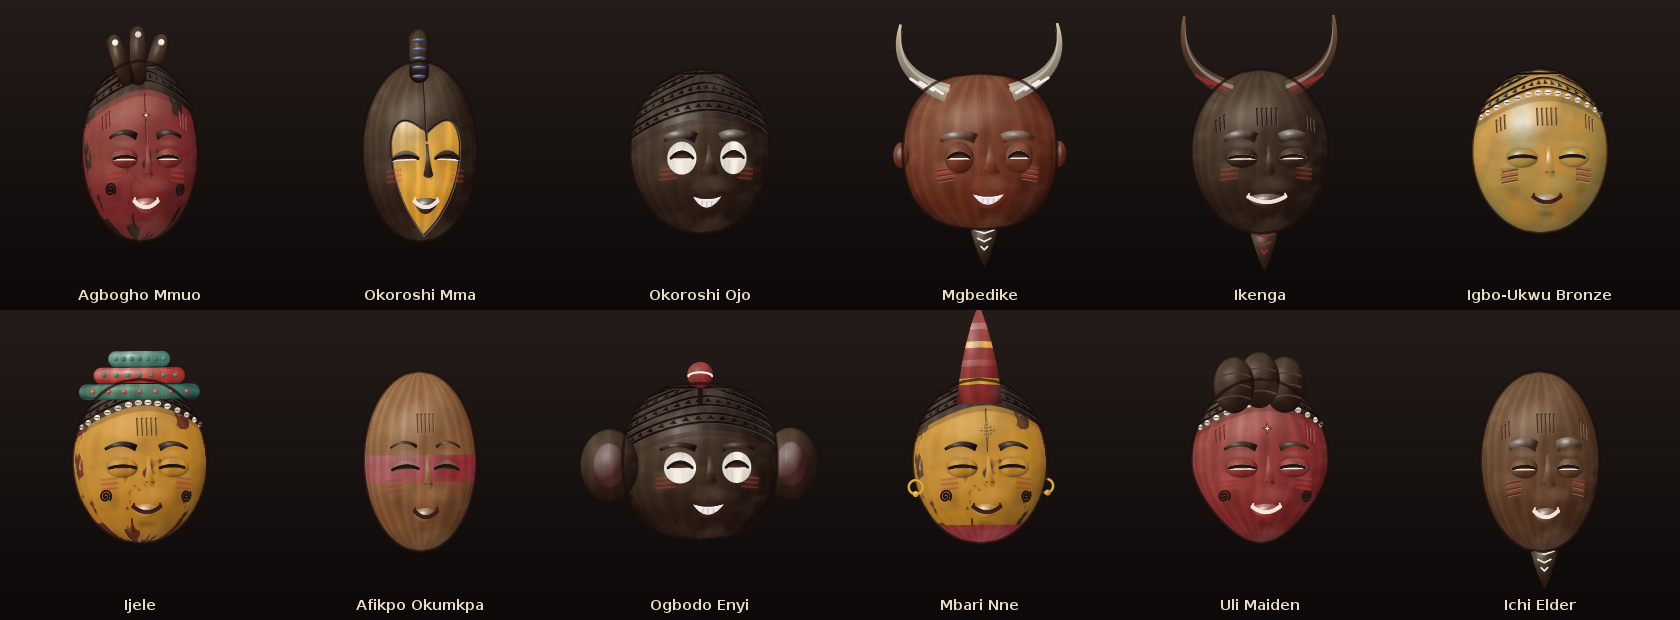
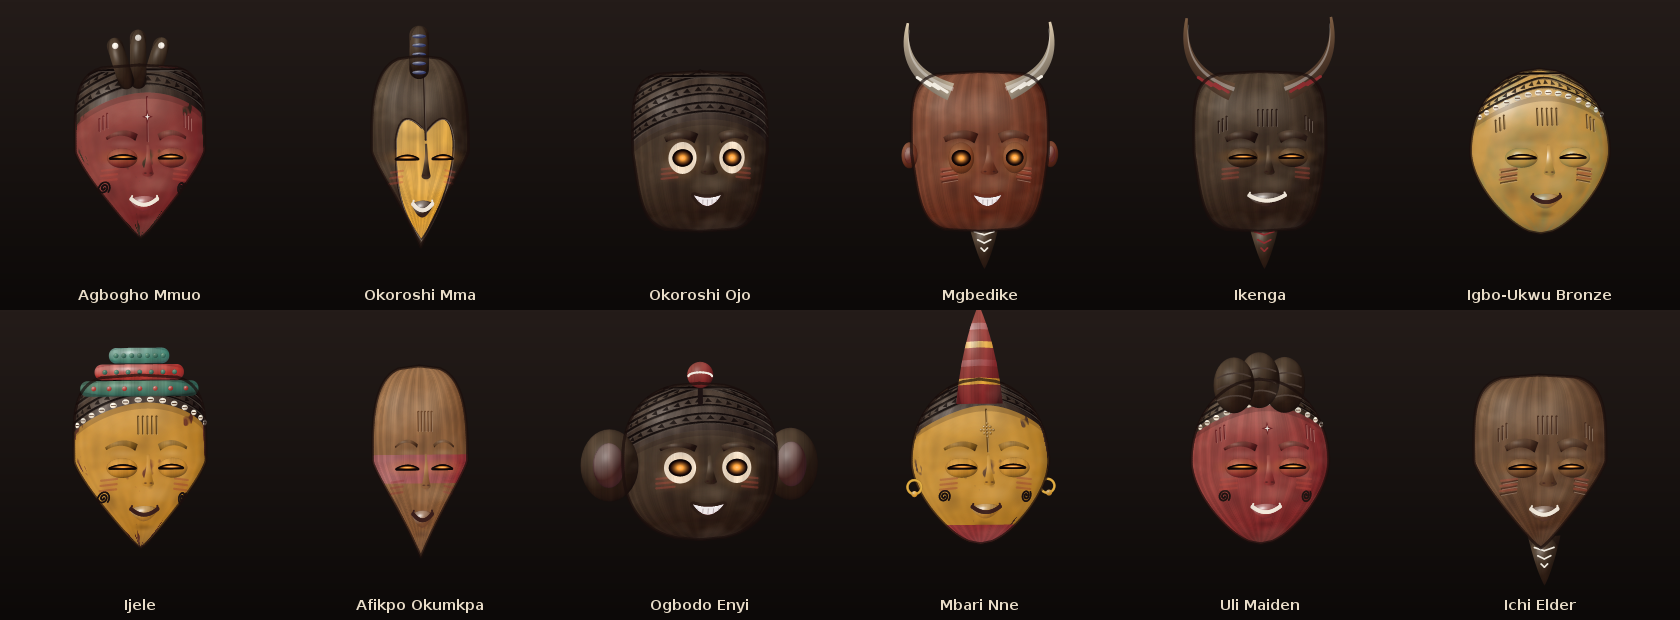
Emoji masks: glowing mask eyes and carved mask silhouettes
Lifeless eyes that glow: on wood and brass an open eye is a level hole cut
through the mask, with no lid, lash line, slant or pupil. It is lit from
inside like an ember, with a spill of light on the wood around it and a
slow flicker.
- Feelings shape the cut: a slit when serene, round in surprise, a glowing
  arch in laughter, a thin burning line when closed.
- The light burns red in anger and cold in grief.
- Brows are carved ridges in the mask's own wood, not painted black arches.
- The glossy finish keeps the emoji eyes.

Less oval, more mask:
- New silhouettes: shield (broad squared brow, chin narrowing to a point),
  blade (long and narrow) and square jaw.
- Wood and brass faces are shaded as a flat carved plane that turns
  sharply at the rim, instead of as a ball.
- The presets move onto these shapes, and the generator favours them.

Claude-Session: https://claude.ai/code/session_012NjHhwH1EvBHzbd255Gvhb

diff --git a/engine/model/src/main/kotlin/com/stratum/engine/model/mask/EmojiMask.kt b/engine/model/src/main/kotlin/com/stratum/engine/model/mask/EmojiMask.kt
@@ -39,7 +39,7 @@ import kotlin.random.Random
  */
 object EmojiMask {
 
-    enum class FaceShape(val label: String) { OVAL("Oval"), ROUND("Round"), LONG("Long"), HEART("Heart") }
+    enum class FaceShape(val label: String) { OVAL("Oval"), ROUND("Round"), LONG("Long"), HEART("Heart"), SHIELD("Shield"), BLADE("Blade"), SQUARE("Square jaw") }
     enum class Hairline(val label: String) { PEAK("Peaked"), HIGH("High dome"), SCALLOP("Scalloped"), LOW("Low"), BALD("None") }
     enum class Crest(val label: String) {
         NONE("None"), COMBS("Combs"), LOBES("Lobes"), RIDGES("Ridges"), KNOTS("Knots"), CONE("Cone"), HORNS("Horns"), TIERS("Tiers"), PLUMES("Plumes"),
@@ -57,7 +57,7 @@ object EmojiMask {
     /** What makes a mask this mask. Colours are [AfricanMaskArt.PIGMENTS] indices. */
     data class Look(
         val name: String = "Mask",
-        val shape: FaceShape = FaceShape.OVAL,
+        val shape: FaceShape = FaceShape.SHIELD,
         /** 0 narrow .. 1 wide. */
         val width: Float = 0.5f,
         val ground: Int = CAMWOOD,
@@ -183,35 +183,35 @@ object EmojiMask {
     /** Masks after the carvers' own: maidens, spirits, the brave. */
     /** Igbo masks after the carvers': maidens and spirits of the masquerade, titled elders, the old bronzes. */
     val presets: List<Look> = listOf(
-        Look("Agbogho Mmuo", ground = CAMWOOD, wood = BLACKWOOD, accent = KAOLIN, shape = FaceShape.LONG, width = 0.4f, crestColour = BLACKWOOD, crestCount = 3, crestSize = 0.6f,
+        Look("Agbogho Mmuo", ground = CAMWOOD, wood = BLACKWOOD, accent = KAOLIN, shape = FaceShape.SHIELD, width = 0.4f, crestColour = BLACKWOOD, crestCount = 3, crestSize = 0.6f,
             hairline = Hairline.HIGH, marks = setOf(Mark.LINE, Mark.STAR, Mark.TEMPLE), paint = setOf(Paint.SPIRALS)),
-        Look("Okoroshi Mma", finish = Finish.CARVED, shape = FaceShape.LONG, ground = BLACKWOOD, wood = BLACKWOOD, hair = BLACKWOOD, accent = OCHRE, width = 0.35f,
+        Look("Okoroshi Mma", finish = Finish.CARVED, shape = FaceShape.BLADE, ground = BLACKWOOD, wood = BLACKWOOD, hair = BLACKWOOD, accent = OCHRE, width = 0.35f,
             hairline = Hairline.BALD, crest = Crest.RIDGES, crestCount = 1, crestSize = 0.6f, crestColour = BLACKWOOD, eyes = EyeStyle.SLIT, brows = BrowStyle.NONE,
             paint = setOf(Paint.HEART), marks = setOf(Mark.LINE)),
-        Look("Okoroshi Ojo", finish = Finish.CARVED, ground = BLACKWOOD, wood = BLACKWOOD, hair = LAMPBLACK, accent = KAOLIN, accent2 = GOLD, hairline = Hairline.LOW,
+        Look("Okoroshi Ojo", finish = Finish.CARVED, shape = FaceShape.SQUARE, ground = BLACKWOOD, wood = BLACKWOOD, hair = LAMPBLACK, accent = KAOLIN, accent2 = GOLD, hairline = Hairline.LOW,
             crest = Crest.NONE, eyes = EyeStyle.ROUND, brows = BrowStyle.RIDGE, nose = NoseStyle.BROAD, mouth = MouthStyle.TEETH, marks = setOf(Mark.ICHI), width = 0.7f),
-        Look("Mgbedike", finish = Finish.CARVED, shape = FaceShape.ROUND, ground = MAHOGANY, wood = MAHOGANY, hair = BLACKWOOD, accent = KAOLIN, accent2 = GOLD, crestColour = BONE,
+        Look("Mgbedike", finish = Finish.CARVED, shape = FaceShape.SQUARE, ground = MAHOGANY, wood = MAHOGANY, hair = BLACKWOOD, accent = KAOLIN, accent2 = GOLD, crestColour = BONE,
             hairline = Hairline.BALD, crest = Crest.HORNS, crestSize = 0.8f, eyes = EyeStyle.TUBE, brows = BrowStyle.RIDGE, nose = NoseStyle.BROAD, mouth = MouthStyle.TEETH,
             ears = Ears.SMALL, marks = setOf(Mark.CHEEK), beard = true, width = 0.8f),
-        Look("Ikenga", finish = Finish.CARVED, ground = BLACKWOOD, wood = BLACKWOOD, hair = BLACKWOOD, accent = CAMWOOD, accent2 = KAOLIN, crestColour = UMBER,
+        Look("Ikenga", finish = Finish.CARVED, shape = FaceShape.SQUARE, ground = BLACKWOOD, wood = BLACKWOOD, hair = BLACKWOOD, accent = CAMWOOD, accent2 = KAOLIN, crestColour = UMBER,
             hairline = Hairline.BALD, crest = Crest.HORNS, crestSize = 1f, eyes = EyeStyle.BEAN, brows = BrowStyle.RIDGE, mouth = MouthStyle.WIDE,
             marks = setOf(Mark.ICHI, Mark.TEMPLE), beard = true, width = 0.6f),
         Look("Igbo-Ukwu Bronze", finish = Finish.BRASS, ground = BRASS, wood = BRASS, hair = BRASS, crest = Crest.NONE, hairline = Hairline.HIGH, braids = true,
             cowries = true, eyes = EyeStyle.BEAN, brows = BrowStyle.NONE, marks = setOf(Mark.ICHI, Mark.TEMPLE, Mark.CHEEK), accent = CORAL, accent2 = CORAL,
-            shape = FaceShape.OVAL, width = 0.55f),
-        Look("Ijele", ground = OCHRE, wood = MAHOGANY, accent = VERMILION, accent2 = JADE, crestColour = JADE, crest = Crest.TIERS, hairline = Hairline.HIGH,
+            shape = FaceShape.HEART, width = 0.55f),
+        Look("Ijele", shape = FaceShape.SHIELD, ground = OCHRE, wood = MAHOGANY, accent = VERMILION, accent2 = JADE, crestColour = JADE, crest = Crest.TIERS, hairline = Hairline.HIGH,
             marks = setOf(Mark.ICHI), paint = setOf(Paint.SPIRALS), cowries = true),
-        Look("Afikpo Okumkpa", finish = Finish.CARVED, shape = FaceShape.LONG, ground = IROKO, wood = IROKO, hair = BLACKWOOD, accent = CAMWOOD, accent2 = KAOLIN,
+        Look("Afikpo Okumkpa", finish = Finish.CARVED, shape = FaceShape.BLADE, ground = IROKO, wood = IROKO, hair = BLACKWOOD, accent = CAMWOOD, accent2 = KAOLIN,
             hairline = Hairline.BALD, crest = Crest.NONE, paint = setOf(Paint.EYE_BAND), marks = setOf(Mark.ICHI), width = 0.25f, brows = BrowStyle.THIN, eyes = EyeStyle.SLIT),
         Look("Ogbodo Enyi", finish = Finish.CARVED, ground = BLACKWOOD, wood = BLACKWOOD, hair = LAMPBLACK, hairline = Hairline.LOW, crest = Crest.KNOTS, crestCount = 1,
             crestColour = CAMWOOD, eyes = EyeStyle.ROUND, mouth = MouthStyle.TEETH, ears = Ears.ELEPHANT, accent = KAOLIN, marks = setOf(Mark.ICHI),
             shape = FaceShape.ROUND, width = 0.8f),
-        Look("Mbari Nne", ground = OCHRE, wood = UMBER, hair = LAMPBLACK, crest = Crest.CONE, crestColour = CAMWOOD, crestSize = 0.8f, accent = OCHRE, accent2 = CAMWOOD,
+        Look("Mbari Nne", shape = FaceShape.HEART, ground = OCHRE, wood = UMBER, hair = LAMPBLACK, crest = Crest.CONE, crestColour = CAMWOOD, crestSize = 0.8f, accent = OCHRE, accent2 = CAMWOOD,
             hairline = Hairline.HIGH, marks = setOf(Mark.LINE, Mark.KELOID), paint = setOf(Paint.SPIRALS, Paint.CHIN), earrings = true),
         Look("Uli Maiden", finish = Finish.CARVED, ground = CAMWOOD, wood = CAMWOOD, hair = BLACKWOOD, crest = Crest.LOBES, crestCount = 3, crestColour = BLACKWOOD,
             accent = KAOLIN, accent2 = GOLD, paint = setOf(Paint.SPIRALS), marks = setOf(Mark.STAR, Mark.TEMPLE), cowries = true, shape = FaceShape.HEART),
         Look("Ichi Elder", finish = Finish.CARVED, ground = UMBER, wood = UMBER, hair = BLACKWOOD, accent = KAOLIN, hairline = Hairline.BALD, crest = Crest.NONE,
-            eyes = EyeStyle.BEAN, brows = BrowStyle.RIDGE, nose = NoseStyle.BROAD, marks = setOf(Mark.ICHI, Mark.TEMPLE, Mark.CHEEK), beard = true, shape = FaceShape.LONG, width = 0.5f),
+            eyes = EyeStyle.BEAN, brows = BrowStyle.RIDGE, nose = NoseStyle.BROAD, marks = setOf(Mark.ICHI, Mark.TEMPLE, Mark.CHEEK), beard = true, shape = FaceShape.SHIELD, width = 0.5f),
     )
 
     /**
@@ -239,7 +239,7 @@ object EmojiMask {
         val eyes = one(listOf(EyeStyle.BEAN, EyeStyle.BEAN, EyeStyle.BEAN, EyeStyle.TUBE, EyeStyle.TUBE, EyeStyle.ROUND, EyeStyle.ROUND, EyeStyle.SLIT, EyeStyle.ALMOND))
         return Look(
             name = name,
-            shape = one(FaceShape.entries),
+            shape = one(listOf(FaceShape.SHIELD, FaceShape.SHIELD, FaceShape.BLADE, FaceShape.BLADE, FaceShape.SQUARE, FaceShape.SQUARE, FaceShape.HEART, FaceShape.HEART, FaceShape.LONG, FaceShape.ROUND)),
             width = 0.2f + r.nextFloat() * 0.6f,
             ground = ground,
             hair = if (finish == Finish.BRASS) BRASS else one(listOf(LAMPBLACK, BLACKWOOD, BLACKWOOD, INDIGO, wood)),
@@ -299,8 +299,8 @@ object EmojiMask {
 
     private class Rig(val cv: VectorCanvas, val look: Look, val f: Face, val yaw: Float, val t: Float, blink: Boolean) {
         // ---- the head's form -------------------------------------------------------
-        val rx = (0.74f + 0.16f * look.width) * when (look.shape) { FaceShape.ROUND -> 1.08f; FaceShape.LONG -> 0.88f; FaceShape.HEART -> 1.02f; FaceShape.OVAL -> 1f }
-        val ry = when (look.shape) { FaceShape.LONG -> 1.1f; FaceShape.ROUND -> 0.95f; else -> 1f }
+        val rx = (0.74f + 0.16f * look.width) * when (look.shape) { FaceShape.ROUND -> 1.08f; FaceShape.LONG -> 0.88f; FaceShape.HEART -> 1.02f; FaceShape.OVAL -> 1f; FaceShape.SHIELD -> 0.98f; FaceShape.BLADE -> 0.74f; FaceShape.SQUARE -> 0.96f }
+        val ry = when (look.shape) { FaceShape.LONG -> 1.1f; FaceShape.ROUND -> 0.95f; FaceShape.SHIELD -> 1.05f; FaceShape.BLADE -> 1.16f; FaceShape.SQUARE -> 0.97f; else -> 1f }
         val headY = -0.2f + 0.018f * sin(t * 1.7f)
         val squash = f.bounce * 0.045f * sin(t * 9f)
         val roll = f.tilt + 0.025f * sin(t * 0.9f)
@@ -341,6 +341,10 @@ object EmojiMask {
             val a = abs(v).coerceAtMost(1f)
             return when (look.shape) {
                 FaceShape.ROUND -> (1f - a.pow(2.4f)).coerceAtLeast(0f).pow(1f / 2.4f)
+                // A carved mask's outline: a broad, squared brow, cheeks that fall away, a chin that narrows to a point.
+                FaceShape.SHIELD -> if (v >= 0f) (1f - a.pow(4f)).coerceAtLeast(0f).pow(0.25f) else (1f - a.pow(1.6f)).coerceAtLeast(0f).pow(0.8f) * (1f - 0.38f * a)
+                FaceShape.BLADE -> if (v >= 0f) (1f - a.pow(3f)).coerceAtLeast(0f).pow(1f / 3f) else (1f - a.pow(1.4f)).coerceAtLeast(0f).pow(0.9f) * (1f - 0.5f * a)
+                FaceShape.SQUARE -> (1f - a.pow(4.5f)).coerceAtLeast(0f).pow(1f / 4.5f) * (if (v < 0f) 1f - 0.16f * a else 1f)
                 FaceShape.HEART -> sqrt(1f - a * a) * (if (v < 0f) 1f - 0.3f * a.pow(1.6f) else 1f)
                 else -> sqrt(1f - a * a)
             }
@@ -420,7 +424,10 @@ object EmojiMask {
             val v = (hy / ry).coerceIn(-1f, 1f)
             val wv = w(v)
             val s = if (wv > 1e-3f) (hx / (rx * wv)).coerceIn(-1f, 1f) else 0f
-            val nx = s * wv; val ny = v; val nz = sqrt(max(0f, 1f - nx * nx - ny * ny))
+            // A mask is a carved board, not a ball: flat across its face, turning sharply at the rim.
+            val fs = if (gloss) s else Math.copySign(abs(s).pow(2.3f), s)
+            val fv = if (gloss) v else Math.copySign(abs(v).pow(2f), v)
+            val nx = fs * wv; val ny = fv; val nz = sqrt(max(0f, 1f - nx * nx - ny * ny))
             // Where on the head this is, so grain and wear stay put as it turns.
             val th = asin(s) - yaw
             var col = texture(shade(m, nx, ny, nz), th, v, nz)
@@ -851,7 +858,7 @@ object EmojiMask {
                 EyeKind.SPIRAL -> {
                     val pts = FloatArray(90)
                     for (i in 0 until 45) { val k = i / 44f; val a = k * 5.2f * PI.toFloat() * sd + t * 5f * sd; val r = 0.01f + 0.14f * k; pts[i * 2] = cu + cos(a) * r; pts[i * 2 + 1] = v + sin(a) * r }
-                    cv.stroke(onFace(pts), 0.038f, eyeLine)
+                    if (gloss) cv.stroke(onFace(pts), 0.038f, eyeLine) else glowLine(onFace(pts), 0.026f, sd, 1f)
                     return
                 }
                 EyeKind.NORMAL -> Unit
@@ -859,42 +866,80 @@ object EmojiMask {
             val open = (if (sd < 0) f.eyeOpenL else f.eyeOpenR) * blinkK
             val smile = f.eyeSmile.coerceIn(0f, 1f)
             val lidCol = if (Paint.LIDS in look.paint) hairMat else material(mix(pigment(look.ground), c(0x3A2028), 0.16f), 0.4f)
-            if (open < 0.12f || (st == EyeStyle.BEAN && open < 0.3f && smile < 0.45f)) { closedEye(cu, v, ew, sd, smile, lidCol); return }
+            if (gloss) { emojiEye(cu, v, ew, eh, sd, st, open, smile, lidCol, fc); return }
+            if (open < 0.12f) { closedEye(cu, v, ew, sd, smile, lidCol); return }
+            // A mask's eye: a hole cut level through the wood, no lid, no pupil, lit from inside.
             val o = open.coerceAtMost(1.4f)
             val lift = if (st == EyeStyle.TUBE) 0.05f else 0f
-            // Level or drooping at the outer corner, as the carvers cut them -- never slanting up.
-            val tilt = when (st) { EyeStyle.SLIT -> -0.012f; EyeStyle.ALMOND -> -0.02f; else -> 0f }
+            // Cut wide enough for the light to show, whatever the feeling.
+            val hh = max(when (st) { EyeStyle.SLIT, EyeStyle.BEAN -> 0.03f; EyeStyle.ALMOND -> 0.04f; else -> 0.06f },
+                when (st) { EyeStyle.SLIT, EyeStyle.BEAN -> 0.7f; EyeStyle.ALMOND -> 0.85f; else -> 1f } * eh * o)
+            val ix = cu - sd * ew; val ox = cu + sd * ew
+            val uv = when (st) {
+                EyeStyle.ROUND, EyeStyle.TUBE -> Shapes.ellipse(cu, v, ew * 0.85f, hh * 1.1f + 0.02f, 32)
+                else -> {
+                    // A level lens; a smile bends its floor up into a crescent.
+                    val upper = Shapes.quad(ix, v, cu, v + 2f * hh * (1f + 0.3f * smile), ox, v, 18)
+                    val lower = Shapes.quad(ox, v, cu, v + 2f * hh * (-(1f - smile) + 0.75f * smile), ix, v, 18)
+                    upper + lower.copyOfRange(2, lower.size - 2)
+                }
+            }
+            glowHole(onFace(uv, lift), fc, sd)
+        }
+
+        /** What lights the mask from inside: ember, redder in anger, pale and cold in grief. */
+        fun glowColour(): Int {
+            var g = if (metal) c(0xFFC860) else c(0xFFA23A)
+            g = mix(g, c(0xFF3418), f.anger.coerceIn(0f, 1f) * 0.8f)
+            g = mix(g, c(0x9CD2FF), (f.tears * 0.7f + max(0f, -f.mouthSmile) * 0.3f).coerceIn(0f, 0.8f))
+            return g
+        }
+
+        fun pulse(sd: Float): Float = 0.82f + 0.18f * sin(t * 2.3f + sd * 0.7f) * (0.6f + 0.4f * sin(t * 7.1f))
+
+        /** A hole through the mask with light behind it: a spill on the wood round it, a dark cut edge, a burning core. */
+        fun glowHole(shape: FloatArray, fc: Float, sd: Float) {
+            val b = bounds(shape)
+            val cx = (b[0] + b[2]) / 2f; val cy = (b[1] + b[3]) / 2f
+            val rw = (b[2] - b[0]) / 2f + 1e-3f; val rh = (b[3] - b[1]) / 2f + 1e-3f
+            val g = glowColour(); val k = pulse(sd)
+            soft(cx, cy, rw * 2.2f + 0.06f, rh * 3f + 0.08f, g, 0.32f * k * fc)
+            cv.stroke(shape, 0.03f, c(0x0A0404), closed = true)
+            val core = mix(g, c(0xFFF4D8), 0.55f)
+            cv.fill(shape, VectorCanvas.Paint { x, y ->
+                val r = sqrt(((x - cx) / rw).let { it * it } + ((y - cy) / rh).let { it * it }).coerceIn(0f, 1f)
+                val inner = (1f - r).pow(1.3f) * k
+                if (inner > 0.55f) mix(g, core, ((inner - 0.55f) / 0.45f).coerceIn(0f, 1f)) else mix(c(0x160404), g, (inner / 0.55f).coerceIn(0f, 1f))
+            })
+        }
+
+        /** A burning line: the glow through a closed eye or round a laugh. */
+        fun glowLine(pts: FloatArray, width: Float, sd: Float, dim: Float) {
+            val g = glowColour(); val k = pulse(sd) * dim
+            cv.stroke(pts, width * 2.6f, g, opacity = 0.18f * k)
+            cv.stroke(pts, width * 1.35f, c(0x0A0404))
+            cv.stroke(pts, width * 0.6f, mix(g, c(0xFFF4D8), 0.35f), opacity = k)
+        }
+
+        /** The glossy emoji's eye: an open eye with a shine, lids and a lash line. */
+        fun emojiEye(cu: Float, v: Float, ew: Float, eh: Float, sd: Float, st: EyeStyle, open: Float, smile: Float, lidCol: Material, fc: Float) {
+            if (open < 0.12f) { closedEye(cu, v, ew, sd, smile, lidCol); return }
+            val o = open.coerceAtMost(1.4f)
+            val lift = if (st == EyeStyle.TUBE) 0.05f else 0f
             val ix = cu - sd * ew; val ox = cu + sd * ew
             val up = v + 2f * eh * o * (1f + 0.2f * smile)
             val low = v + 2f * eh * o * (-(1f - smile) + 0.8f * smile)
-            val upper = Shapes.quad(ix, v, cu, up, ox, v + tilt, 18)
-            val lower = Shapes.quad(ox, v + tilt, cu, low, ix, v, 18)
-            val uv = upper + lower.copyOfRange(2, lower.size - 2)
-            val shape = onFace(uv, lift)
+            val upper = Shapes.quad(ix, v, cu, up, ox, v, 18)
+            val lower = Shapes.quad(ox, v, cu, low, ix, v, 18)
+            val shape = onFace(upper + lower.copyOfRange(2, lower.size - 2), lift)
             val b = bounds(shape)
             rim(shape)
             cv.fill(shape, linear(0f, b[3], EYE_DARK, 0f, b[1], EYE_WARM))
             cv.clipped(shape) {
                 val g = point(cu - sd * 0.25f * ew + f.lookX * 0.05f - 0.03f, v + eh * o * 0.5f + f.lookY * 0.03f, lift)
                 val gr = 0.048f * (0.6f + 0.4f * min(1f, o))
-                // A glossy emoji's eyes shine; a carved mask's are dark openings, with only a dull warmth where they catch the light.
-                if (gloss) {
-                    cv.fill(Shapes.ellipse(g[0], g[1], gr * (0.5f + 0.5f * fc), gr, 18), c(0xFFFFFF))
-                    val g2 = point(cu + sd * 0.3f * ew + f.lookX * 0.05f, v - eh * o * 0.25f + f.lookY * 0.03f, lift)
-                    cv.fill(Shapes.ellipse(g2[0], g2[1], 0.022f, 0.022f, 12), c(0xFFFFFF), 0.8f)
-                } else {
-                    soft(g[0], g[1] - 0.01f, gr * 2.2f, gr * 1.2f, c(0x6A3A22), 0.35f)
-                }
-                if (f.tears > 0.15f) {
-                    // Welling tears: a bright wet line along the lower lid.
-                    cv.fill(onFace(Shapes.ellipse(cu, low * 0.6f + v * 0.4f, ew, eh * 0.9f, 24), lift), c(0x7FC8FF), 0.55f * min(1f, f.tears * 1.5f))
-                }
-            }
-            // The heavy upper lid of the carvers, and the crisp line under it.
-            if (st == EyeStyle.SLIT || st == EyeStyle.ALMOND) {
-                val lidTop = Shapes.quad(ox + sd * 0.025f, v + tilt + 0.012f, cu, up + 0.075f + (if (st == EyeStyle.SLIT) 0.03f else 0f), ix - sd * 0.025f, v + 0.012f, 18)
-                val lid = onFace(upper + lidTop, lift)
-                cv.fill(lid, headPaint(lidCol))
+                cv.fill(Shapes.ellipse(g[0], g[1], gr * (0.5f + 0.5f * fc), gr, 18), c(0xFFFFFF))
+                if (f.tears > 0.15f) cv.fill(onFace(Shapes.ellipse(cu, low * 0.6f + v * 0.4f, ew, eh * 0.9f, 24), lift), c(0x7FC8FF), 0.55f * min(1f, f.tears * 1.5f))
             }
             cv.stroke(onFace(upper, lift), 0.034f, EYE_DARK)
         }
@@ -910,9 +955,14 @@ object EmojiMask {
         }
 
         fun closedEye(cu: Float, v: Float, ew: Float, sd: Float, smile: Float, lidCol: Material) {
-            if (look.eyes == EyeStyle.BEAN && smile <= 0.45f) {
-                // The bean's slit: a straight cut across the mound.
-                cv.stroke(onFace(floatArrayOf(cu - sd * ew * 0.95f, v + 0.005f, cu, v - 0.004f, cu + sd * ew * 0.95f, v + 0.005f), 0.036f), 0.034f, if (darkGround) c(0x0C0606) else EYE_DARK)
+            if (!gloss) {
+                if (smile > 0.45f) {
+                    // A laugh: the light bends into an arch.
+                    glowLine(onFace(Shapes.quad(cu - sd * ew * 0.85f, v - 0.04f, cu, v + 0.15f, cu + sd * ew * 0.85f, v - 0.04f, 16), 0.02f), 0.04f, sd, 1f)
+                } else {
+                    // Closed or sleeping: a thin line of light still burning in the cut.
+                    glowLine(onFace(floatArrayOf(cu - sd * ew * 0.9f, v, cu, v - 0.006f, cu + sd * ew * 0.9f, v), 0.02f), 0.034f, sd, 0.6f)
+                }
                 return
             }
             if (smile > 0.45f) {
@@ -941,7 +991,12 @@ object EmojiMask {
                 val (w0, w1) = when (look.brows) { BrowStyle.ARCH -> 0.085f to 0.035f; BrowStyle.RIDGE -> 0.13f to 0.07f; BrowStyle.THIN -> 0.04f to 0.022f; BrowStyle.NONE -> 0f to 0f }
                 val shape = onFace(Shapes.taper(ax, ay, mx, my, bx, by, w0, w1, 16), 0.01f)
                 val b = bounds(shape)
-                val m = if (look.brows == BrowStyle.RIDGE) material(mix(pigment(look.ground), pigment(look.hair), 0.55f), 0.5f) else hairMat
+                // On wood and brass a brow is carved: a ridge in the mask's own material, a shade deeper.
+                val m = when {
+                    !gloss -> moody(material(mix(pigment(look.ground), c(0x1A0E0C), 0.35f), sheen))
+                    look.brows == BrowStyle.RIDGE -> material(mix(pigment(look.ground), pigment(look.hair), 0.55f), 0.5f)
+                    else -> hairMat
+                }
                 cv.fill(shape, blobPaint(m, (b[0] + b[2]) / 2f, (b[1] + b[3]) / 2f, (b[2] - b[0]) / 2f + 0.01f, (b[3] - b[1]) / 2f + 0.01f))
             }
         }
